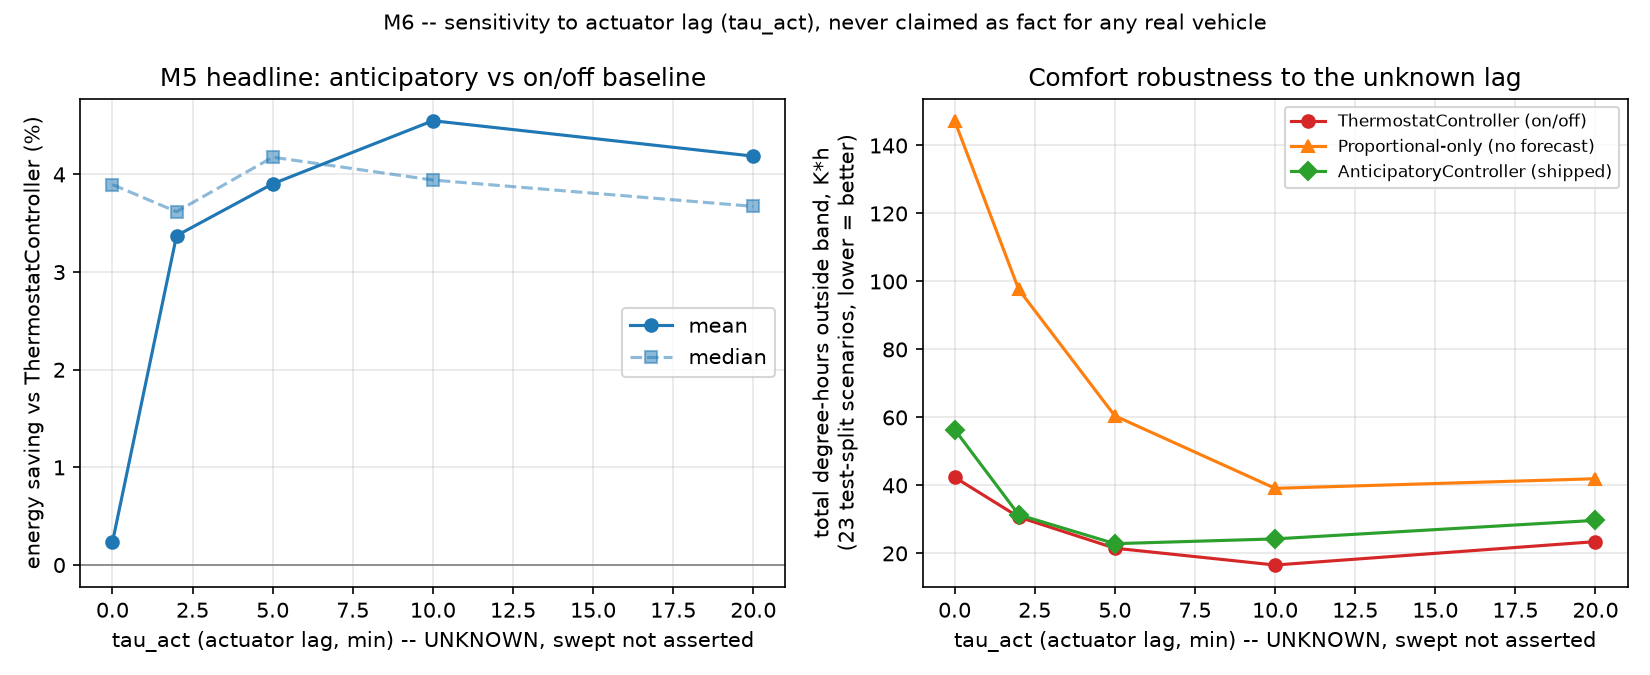
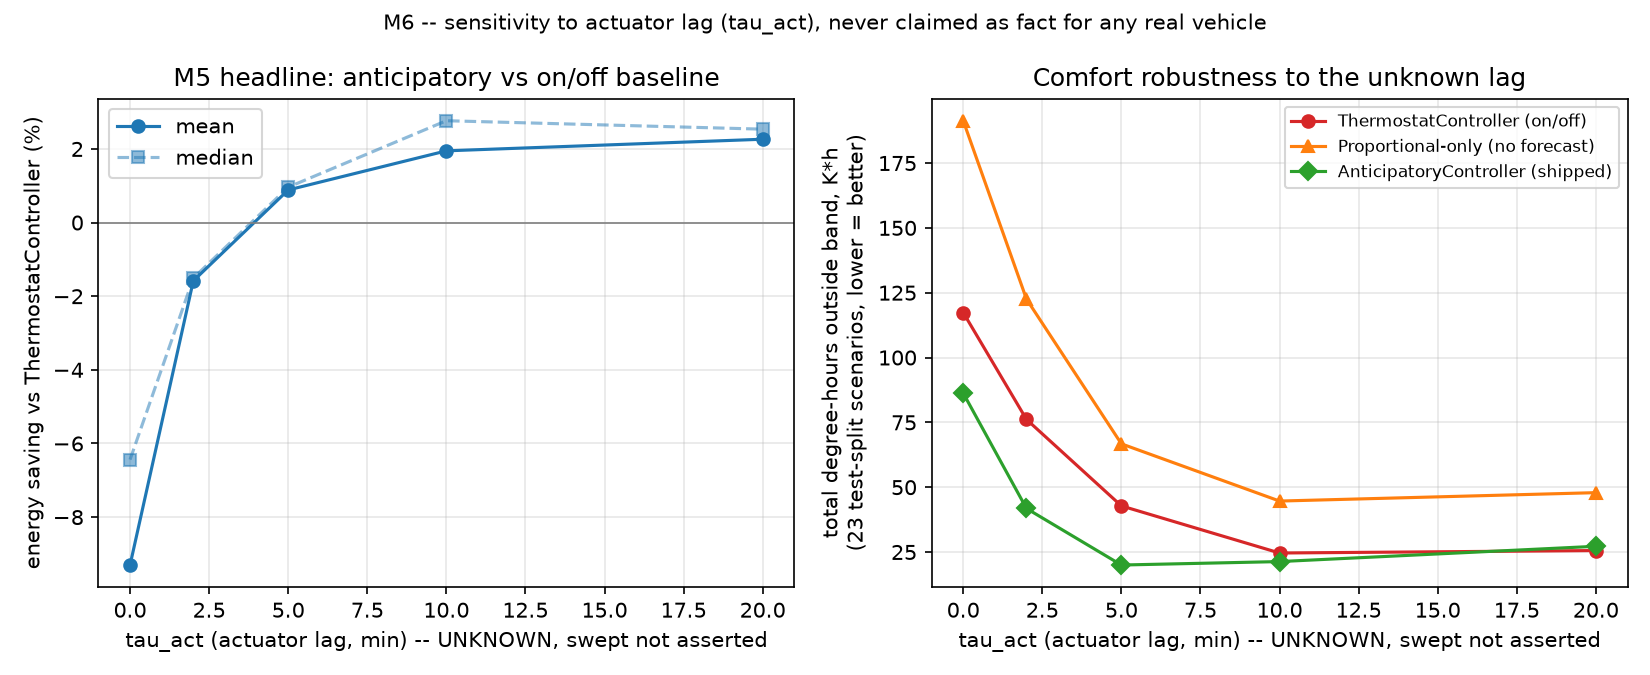
Correct fresh-air rate 15->20 m3/h/pax, regenerate M4-M6 with it
ventilation.fresh_air_m3_h_per_passenger was the EN 13129 Table 11 REDUCED/
extreme-condition rate, not the standard one. A real climate chamber test
report (a teammate found it, Section 4.3, cites the table directly) gives 20
m3/h/pax as normal, 15/10 as reduced -- this project had 15 without
realizing it was the reduced figure.

CASCADE, EACH STEP VERIFIED, NOT ASSUMED

- supply_air_m3_h rescaled 4800->6400 to hold the same 25% outside-air
  fraction the original derivation assumed.
- Derived time constants moved (design-load tau_slow 77.7->72.3 min; the
  empty case is unaffected -- below min_fresh_air_m3_h's floor either way).
- scenarios_raw.parquet regenerated, forecaster retrained: test MAE
  improvement over persistence essentially unchanged (+21.8%->+21.1%), i.e.
  the correction changed the physics the model has to predict, not its
  ability to predict it.
- M5 headline (compare(), on/off baseline) re-run once on the new test
  split: energy saving 3.9%->0.9% -- much more marginal, reported as-is
  rather than defended. Comfort dominance got unambiguous: 11/23->23/23
  scenarios equal-or-better, because the heavier ventilation load hurts the
  simple on/off baseline's comfort far more than it costs the anticipatory
  controller's energy.
- Feedforward-contribution ablation (compare_feedforward_contribution()):
  still the cleanest, most consistent result in the project -- forecast
  costs 6.9% more energy, cuts degree-hours 70% (was 62%), 23/23 scenarios
[…]

diff --git a/tests/test_evaluate.py b/tests/test_evaluate.py
@@ -100,17 +100,23 @@ def test_never_negative():
 
 
 def test_run_controller_matches_the_manually_traced_reference(cfg, require_weather):
-    """Locks in the numbers this file's own __main__ block reported when
-    evaluate.py was first written and cross-checked by hand: energy 26.75 kWh,
-    mean error +0.58 K, worst excursion 4.79 K, on the same fixed scenario
-    used throughout M5's development. A silent regression in run_controller
-    or score() should move these.
+    """Locks in the numbers this file's own __main__ block reports, on the
+    same fixed scenario used throughout M5's development. A silent
+    regression in run_controller or score() should move these.
+
+    Updated to 30.86 kWh / +0.47 K / 5.06 K after
+    ventilation.fresh_air_m3_h_per_passenger was corrected 15->20 (the real
+    EN 13129 standard rate, not the reduced one -- see cabin_params.yaml).
+    More fresh air is a real physical change (more ventilation heat load in
+    a hot climate), so this test moving is the test doing its job, not a
+    bug -- the original 26.75/0.58/4.79 reference is in git history if ever
+    needed for comparison.
     """
     traj = run_controller(lambda model: ThermostatController(model), cfg)
     result = score(traj, cfg)
-    assert result.energy_kwh == pytest.approx(26.75, abs=0.1)
-    assert result.mean_err_k == pytest.approx(0.58, abs=0.05)
-    assert result.worst_excursion_k == pytest.approx(4.79, abs=0.1)
+    assert result.energy_kwh == pytest.approx(30.86, abs=0.1)
+    assert result.mean_err_k == pytest.approx(0.47, abs=0.05)
+    assert result.worst_excursion_k == pytest.approx(5.06, abs=0.1)
     assert result.minutes == len(traj)
 
 

diff --git a/ROADMAP.md b/ROADMAP.md
@@ -253,9 +253,11 @@ The improvement is smaller on test than train/val — an honest generalisation g
 
 > **The first full run across the M4 test split came back NEGATIVE.** `AnticipatoryController` used *more* energy than `ThermostatController` on 15/23 scenarios, and was strictly worse on both energy **and** comfort on 6/23 — the "inherited risk" below, materialising. Diagnosis, not guesswork: on the canonical scenario, `ThermostatController` is fully off 32.5% of the time; the raw proportional law had no floor and was off only 0.6% of the time — it never stopped nudging, paying continuous low-power compressor cost the baseline's real off-periods avoid entirely. **Fix:** added a deadband to `AnticipatoryController`, reusing `hvac.thermostat_hysteresis_k` (already sourced for the baseline, so no second unsourced number) rather than inventing a threshold, applied as a continuous shrink-to-zero rather than a hard on/off jump so it can't reintroduce the chattering `ThermostatController` hit the first time dual-mode hysteresis was tried on this fast plant. **Validated on the val split first** (mean energy saving −4.5%→+3.4%, dominated scenarios 6/23→0/31) **before re-running the test split once** for the actual headline number — tuning against the same split being reported on would be exactly the leakage the chronological split exists to prevent.
 >
-> **Headline result — M4 held-out test split, 23 scenarios, 2024-08-18 to 2024-08-30, both cities, both patterns/directions, all 4 load factors:** `AnticipatoryController` uses **3.9% less energy on average** than `ThermostatController` (median +4.2%, range −2.3% to +8.8%), with **zero scenarios worse on both energy and comfort** (9/23 better on both). Total degree-hours across all 23 scenarios is *not* improved (21.53 → 22.86 K·h, ~+6%) — several of the largest energy savings trade a modest comfort margin rather than being a free lunch. This sits **below** the 10–30% literature-consistent range this milestone's own research table flagged as needing scrutiny; reported as-is rather than tuned toward that range, for the same leakage reason as above. Reproducible via `python -m src.compare_controllers`; `tests/test_compare_controllers.py` locks in the shape of the result (positive mean, zero dominated scenarios) as a regression guard, not the exact decimals.
+> **Superseded by a physics correction — numbers below are current.** `ventilation.fresh_air_m3_h_per_passenger` was corrected 15→20 (the real EN 13129 standard rate; 15 was the *reduced/extreme-condition* figure — see `config/cabin_params.yaml` and the corrections log). More fresh air means more ventilation heat load in an Egyptian summer, which changes the physics both the dataset and the trained forecaster are built on — so `scenarios_raw.parquet` was regenerated, the forecaster retrained (test MAE 4.339 °C vs persistence 5.499 °C, **+21.1%**, essentially unchanged from the pre-correction +21.8%), and both comparisons below re-run once on the resulting test split. This is not a retuning pass — `ff_weight`, `gain_k` and the deadband are untouched — it's the same controller measured against corrected ground truth.
 
-> **A second comparison, answering a different question: does the ML forecast itself earn its keep?** `compare()` above measures "beats today's real rail HVAC (on/off)". `compare_feedforward_contribution()` measures something narrower: the shipped `AnticipatoryController` (`ff_weight=0.6`) against the *same* controller and deadband forced to `ff_weight=0.0` — pure proportional feedback, no M4 forecast involved at all. **Not a real PID** (no integral or derivative term); mislabelling it as one would repeat the exact overclaim this milestone already renamed once ("Smith predictor" → "learned-model anticipatory controller"). Result, same 23 test-split scenarios: the forecast **costs 6.2% more energy on average** (0/23 scenarios save energy from adding it) but **cuts total degree-hours by 62%** (60.47 → 22.86 K·h) and is equal-or-better on comfort in **23/23 scenarios** — the cleanest, most consistent result in this milestone. Mechanism: pure proportional feedback only reacts once `T_air` has already left the deadband; adding the forecast lets the controller act earlier, at a modest continuous energy cost, which is a materially different (and for a passenger-comfort-sensitive application, arguably more relevant) story than "AI saves energy" — it's "AI buys ride quality." Reproducible via `python -m src.compare_controllers` (prints both comparisons); regression-tested in `tests/test_compare_controllers.py`.
+> **Headline result — M4 held-out test split, 23 scenarios, 2024-08-18 to 2024-08-30, both cities, both patterns/directions, all 4 load factors:** `AnticipatoryController` uses **0.9% less energy on average** than `ThermostatController` (median +1.0%, range −2.2% to +6.2%) — much more marginal than the pre-correction +3.9%, and reported as-is rather than defended, since the honest number is what it is. **Zero scenarios worse on both energy and comfort** (15/23 better on both), and comfort is now *unambiguously* better: **23/23 scenarios equal-or-better** (was 11/23), total degree-hours 42.79 → 19.99 K·h (was 21.53 → 22.86 — the baseline's own comfort got much worse under the heavier ventilation load; the anticipatory controller barely moved). The higher heat load hurts the simple on/off baseline's comfort more than it costs the anticipatory controller's energy. See M6 below for why the energy number specifically is fragile in a way the comfort number is not. Reproducible via `python -m src.compare_controllers`; `tests/test_compare_controllers.py` locks in the shape of the result as a regression guard, not the exact decimals — it is currently passing closer to its own zero-bound than before, which is itself worth knowing.
+
+> **A second comparison, answering a different question: does the ML forecast itself earn its keep?** `compare()` above measures "beats today's real rail HVAC (on/off)". `compare_feedforward_contribution()` measures something narrower: the shipped `AnticipatoryController` (`ff_weight=0.6`) against the *same* controller and deadband forced to `ff_weight=0.0` — pure proportional feedback, no M4 forecast involved at all. **Not a real PID** (no integral or derivative term); mislabelling it as one would repeat the exact overclaim this milestone already renamed once ("Smith predictor" → "learned-model anticipatory controller"). Result, same 23 test-split scenarios, post-correction: the forecast **costs 6.9% more energy on average** (0/23 scenarios save energy from adding it) but **cuts total degree-hours by 70%** (66.72 → 19.99 K·h, was 62%) and is equal-or-better on comfort in **23/23 scenarios** — still the cleanest, most consistent result in this milestone, and the gap widened, not narrowed, under the corrected physics. Mechanism unchanged: pure proportional feedback only reacts once `T_air` has already left the deadband; adding the forecast lets the controller act earlier, at a modest continuous energy cost — "AI buys ride quality," not primarily energy. Reproducible via `python -m src.compare_controllers` (prints both comparisons); regression-tested in `tests/test_compare_controllers.py`.
 >
 > **Inherited risk from M4 — flagged before the run, and it was right.** M4's forecaster beats persistence robustly (+21.8–28.5% across independent seeds) **when evaluated the way it was trained** — against the stochastic exploration policy. Tested live against the plain reactive thermostat (`ThermostatController`, this milestone's actual baseline) and it beat persistence in only 1 of 4 scenarios, because persistence itself is a strong baseline once a controller holds `T_air` fairly stable. Full detail in [`docs/PARAMETERS.md`](docs/PARAMETERS.md). **The headline number came from `AnticipatoryController` vs `ThermostatController` directly, on the reactive baseline's own trajectories — never from reusing the "+21.8%" forecaster-vs-persistence figure.** The controller comparison *did* disappoint at first, exactly as this note warned — but the actual fix was not the one predicted here (retraining under the reactive policy). It was a one-line change to the controller's own control law. Left both predictions on the record: the risk assessment was right that this was fragile; the specific guess at the fix was wrong. Worth remembering that distinction next time a risk note tries to predict its own resolution.
 
@@ -266,16 +268,18 @@ The improvement is smaller on test than train/val — an honest generalisation g
 
 `tau_act` is unknown. Rather than picking a number, **sweep it**: `tau_act ∈ {0, 2, 5, 10, 20} min`, re-running both of M5's comparisons for each (`src/sweep_tau_act.py`, `src/plot_tau_act_sweep.py`). Grounded before running it, not asserted: industrial dead-time-compensation literature reports predictive control's advantage over reactive control growing with delay — the same argument a Smith predictor is built on — provided the delay stays within the forecast horizon. Ours is 30 min, comfortably above the sweep's 20 min ceiling.
 
+> **Re-run after the `fresh_air_m3_h_per_passenger` correction (15→20, see M5 above) — the shape changed, not just the numbers.** Same methodology, same controller, corrected physics. The table and conclusions below are the current, valid ones; kept in one pass rather than showing two versions, since the pre-correction sweep is superseded, not a separate finding.
+
 **What was predicted going in, and what the real sweep (23 held-out test-split scenarios at every point) actually showed:**
 
 | Predicted | Found |
 |---|---|
-| Energy saving increases *monotonically* with lag | Rises from **+0.2%** (`tau_act=0`) to a peak of **+4.6%** (`tau_act=10`), then flattens to +4.2% at `tau_act=20` — a real, positive trend, not unbounded monotonic growth |
-| At `tau_act=0`, `compare_feedforward_contribution()`'s gap (anticipatory vs proportional-only) shrinks toward ~0 | It does not. The energy cost of the forecast stays remarkably **stable at −5.3% to −6.2% across the entire sweep** — confirmed further with a 3-scenario probe forcing BOTH `tau_act_min=0` *and* `dead_time_min=0` (true zero total lag): the comfort gap shrinks but stays large (14.15 → 3.43 K·h), it does not vanish |
+| Energy saving increases *monotonically* with lag | **Negative** at `tau_act=0` (**−9.3%**) and `tau_act=2` (**−1.6%**) — the shipped controller uses *more* energy than on/off when the actuator is fast. Crosses positive between 2 and 5 min, then rises **+0.9% → +2.0% → +2.3%** from 5→20. Under the corrected physics this is a *cleaner*, more textbook-consistent result than the pre-correction run (predictive compensation needs delay to earn its keep — at low delay a well-tuned reactive controller can match or beat it) but a **weaker, conditional** claim: it does not hold if the real actuator turns out to be fast |
+| At `tau_act=0`, `compare_feedforward_contribution()`'s gap (anticipatory vs proportional-only) shrinks toward ~0 | Still doesn't shrink toward 0, but the shape flipped: the forecast's *energy* contribution is now slightly **positive** at `tau_act=0` (+2.6%) and consistently **negative** from `tau_act=2` up (−2.5% to −7.2%) — not the stable flat line the pre-correction run showed. The *comfort* contribution is the one number in this milestone that has stayed unambiguous across every re-run: the forecast improves comfort at every single swept point, by a wide margin, every time |
 
-**Not a bug — the original framing undersold the forecaster.** "Converges to baseline at zero lag" assumed the forecast's only job was compensating for actuator delay. It isn't: `expected_boarding`, `time_to_next_station_min` and the weather forecast let it anticipate *known future disturbances* that exist independently of how fast the actuator responds. Zero actuator lag doesn't make a boarding spike any more predictable from current state alone.
+**Not a bug — the original framing undersold the forecaster, and remains true after the correction.** "Converges to baseline at zero lag" assumed the forecast's only job was compensating for actuator delay. It isn't: `expected_boarding`, `time_to_next_station_min` and the weather forecast let it anticipate *known future disturbances* independent of how fast the actuator responds — corrected physics doesn't change that argument, only the exact numbers around it.
 
-**The finding the original plan didn't anticipate, and the more useful one:** `AnticipatoryController`'s total comfort (degree-hours) stays in a comparatively narrow band across the whole sweep (22.9–56.4 K·h, 2.5×) — **both baselines are far more exposed to the unknown lag.** `ThermostatController` swings 16.6–42.4 K·h (2.6×) *non-monotonically* — a lagged actuator first damps bang-bang's overshoot, then becomes too slow to track a disturbance, so there's a comfort sweet spot around 5–10 min, not a monotonic curve. The proportional-only ablation swings far more: **39.1–147.3 K·h (3.8×)**. So the honest M6 headline isn't "savings grow with lag" — it's **"whichever lag the real actuator turns out to have, the shipped controller's comfort is measurably more robust to that unknown than either simpler baseline."** A handful of scenarios (1/23 at `tau_act=0`, 2/23 at `tau_act=20`) are worse on both energy and comfort — the sweep's own extremes, furthest from the training-time default (5 min) the controller's fixed `ff_weight`/`gain_k`/deadband were implicitly shaped around.
+**Comfort, re-examined honestly rather than carried over from the old run:** at low-to-moderate lag (`tau_act` 0–10 min), `AnticipatoryController` has the lowest total degree-hours of the three at every point, often by a wide margin (`tau_act=0`: 86.3 K·h vs 117.4 for on/off and 191.3 for proportional-only). **That dominance narrows at the top of the sweep and reverses slightly against the on/off baseline specifically at `tau_act=20`** (27.2 vs 25.6 K·h — on/off is marginally better there), though it still clearly beats the proportional-only ablation everywhere (47.9 K·h at the same point). The earlier "uniformly more robust than both baselines across the whole sweep" claim does not survive this correction as stated — the honest version is **"comfort-dominant across most of the plausible lag range and always ahead of a forecast-free controller, roughly tied with plain on/off only at the slow end."** A handful of scenarios (2/23 at `tau_act=0`, 2/23 at `tau_act=20`) are worse on both energy and comfort — the sweep's extremes, furthest from the training-time default (5 min) the controller's fixed `ff_weight`/`gain_k`/deadband were implicitly shaped around.
 
 Two reasons this earned its hour, even though the specific claim it set out to check was wrong:
 - **It is still a correctness-relevant check — it just corrected the check itself.** The zero-lag "degenerates to baseline" test rested on a premise (the forecast is *only* about actuator delay) that the data falsified outright. Running it anyway surfaced what the forecaster actually does, which is a real result, not a wasted hour.

diff --git a/docs/PARAMETERS.md b/docs/PARAMETERS.md
@@ -152,18 +152,43 @@ presentation should not claim that it is.
 
 | Parameter | Value | Confidence |
 |---|---|---|
-| `fresh_air_m3_h_per_passenger` | 15.0 | Low |
+| `fresh_air_m3_h_per_passenger` | 20.0 | **Medium — upgraded from Low** |
 | `min_fresh_air_m3_h` | 300.0 | Low |
 
-EN 13129 mandates a per-passenger fresh air rate but **the figure is behind the
-paywall**, so this is tagged `[ASSUMPTION]` rather than dressed up as
-standards-derived. 15 m³/h/pax is a conventional mainline design value.
+**Corrected 15→20.** EN 13129 mandates a per-passenger fresh air rate but the
+standard itself is still paywalled; this is no longer a bare guess, though —
+a real climate chamber test report (Section 4.3, citing the standard's Table
+11 directly) gives **20 m³/h/pax as the NORMAL/standard rate**, with 15 and 10
+m³/h/pax explicitly labelled as the REDUCED rate for extreme conditions the
+report doesn't define further. The 15.0 previously here was the *reduced*
+figure, not the standard one — tagged `[TYPICAL]` now rather than
+`[ASSUMPTION]`, since it traces to an actual cited table rather than "a
+conventional mainline design value" with no citation. Still not `[EN13129]`
+outright: this is a secondary source quoting the standard's table, not the
+standard itself.
 
-The 300 m³/h floor keeps a near-empty coach ventilated; it binds below 20
-passengers, which is why τ is identical at 0 and 20 pax.
+This displaces an earlier cross-check: a different independent source quoted
+exactly 1200 m³/h for a 24 m, 80-passenger intercity coach at +45 °C, which
+matched 15 × 80 = 1200 exactly and no longer matches 20 × 80 = 1600. That
+source never labelled which EN 13129 condition (standard or reduced) it was
+describing — left open, not resolved either way; worth another look if time
+allows, not urgent enough to block on.
 
-At design load: `1200 m³/h → 0.4 kg/s → UA_ventilation = 402 W/K`, comparable to
-the entire envelope. Ventilation is not a minor term in a rail cabin.
+Regenerating `scenarios_raw.parquet` and retraining the M4 forecaster after
+this correction moved the canonical single-scenario reference (energy
+26.75→30.86 kWh) and the M5/M6 headline numbers — see ROADMAP.md's M5 and M6
+sections for the current, valid results. Test MAE held up (+21.8%→+21.1%
+over persistence, essentially unchanged) — the correction changed the
+*physics* the model has to predict, not its ability to predict it.
+
+The 300 m³/h floor keeps a near-empty coach ventilated; it binds below 15
+passengers now (was 20), since the per-passenger rate crosses it sooner at
+20 m³/h/pax than it did at 15.
+
+At design load: `1600 m³/h → 0.53 kg/s → UA_ventilation ≈ 536 W/K` (was 1200
+m³/h / 402 W/K), now noticeably larger than the envelope term (638 W/K) —
+ventilation is not a minor term in a rail cabin, and got less minor with
+this correction.
 
 ---
 
@@ -406,9 +431,11 @@ not improved in aggregate.
 itself buys.** `src/compare_controllers.py`'s `compare_feedforward_contribution()`
 compares the shipped controller against the identical controller/deadband
 with `ff_weight` forced to 0 (pure proportional feedback, no M4 forecast).
-On the same 23 test-split scenarios: the forecast costs 6.2% more energy on
-average but cuts total degree-hours 60.47→22.86 K·h (23/23 scenarios
-equal-or-better). This is the cleanest result in the milestone and it
+On the same 23 test-split scenarios, post fresh-air correction: the forecast
+costs 6.9% more energy on average but cuts total degree-hours 66.72→19.99
+K·h (23/23 scenarios equal-or-better) — a wider gap than the pre-correction
+62%, now 70%. This has been the single most consistent result across every
+re-run in this milestone (deadband fix, fresh-air correction) and it
 directly supports the design choice above ("why feedforward alone isn't
 used" applies in reverse here too: pure feedback alone isn't the free
 option either — it is measurably worse on comfort). **Not a PID comparison**
@@ -975,7 +1002,7 @@ Ranked by *(uncertainty × influence on the result)*, not by uncertainty alone:
 | 2 | `internal_h_w_m2k` (→ `hA`) | Sets τ_fast and the boarding response. Swept 2–15 W/m²K; the conclusion survives but the magnitude moves by >2×. |
 | 3 | `air_exchange_m3_per_min` | Large disturbance (`door_ua` ≈ 563 W/K, ~90% of envelope UA) resting on a pure estimate. |
 | 4 | `u_value_w_m2k` | Sets `UA_envelope`; drives steady-state load and hence capacity sizing. |
-| 5 | `fresh_air_m3_h_per_passenger` | Would become High confidence with EN 13129 access alone — no vehicle data needed. |
+| 5 | `fresh_air_m3_h_per_passenger` | **Upgraded Low→Medium** via a real climate chamber test report citing EN 13129 Table 11 directly (20 m³/h/pax standard, 15/10 reduced). Would still become High confidence with the standard itself — this is a secondary source quoting its table, not the primary document. |
 | 6 | `cooling_capacity_w` | Easy to obtain from any real vehicle datasheet. |
 | — | `interior_mass_capacity_j_k` | **Deliberately last.** Lowest confidence in the project, but measured to be nearly irrelevant to every output that matters. |
 
@@ -1040,3 +1067,4 @@ more than the final numbers.
 | `ThermostatController` run dual-mode | Heat below the lower threshold, cool above the upper one — what a generic thermostat does. Oscillated between full heat and full cool 18 times in 166 minutes, `T_air` swinging 21.8–30 °C, because this cabin's fast air node (`τ_fast` ≈ 1.1–1.3 min) overshoots the opposite threshold before the actuator's dead-time/lag can respond | Made cooling-only, matching every other baseline already built in this project and the documented cooling-dominated climate |
 | `evaluate.run_controller`'s journey start time used `int(depart_hour * 60)` | `data_generator.py` uses `round(...)` for the same computation — a real cross-file inconsistency (up to 1 minute), found while auditing M1–M5 compatibility before trusting the M5 headline number. Harmless in practice (weather is interpolated and slowly varying), but a genuine divergence, not just style | Changed to `round(...)`, matching `data_generator.py` |
 | `AnticipatoryController`'s first M5 headline run | Used *more* energy than `ThermostatController` on 15/23 test-split scenarios, strictly worse on both energy and comfort on 6/23. Root cause: the proportional law had no floor, so it was fully off only 0.6% of minutes vs the baseline's 32.5% — continuous low-power modulation costing more than the baseline's real off-periods | Added a deadband reusing `thermostat_hysteresis_k` (no new unsourced number), applied continuously to avoid reintroducing chattering. Validated on the val split (−4.5%→+3.4% mean saving, 6/23→0/31 dominated) before confirming once on test (+3.9% mean, 0/23 dominated) |
+| `fresh_air_m3_h_per_passenger = 15` | Was the EN 13129 Table 11 *reduced/extreme-condition* rate, not the standard one — a real climate chamber test report (surfaced by a teammate) distinguishes 20 m³/h/pax normal from 15/10 reduced, and this project had the reduced figure without realizing it was one | Corrected to 20. Cascades: `supply_air_m3_h` rescaled 4800→6400 to hold the same 25% outside-air-fraction design assumption; `ventilation_ua` and both derived time constants moved (design-load τ_slow 77.7→72.3 min; empty case unaffected, below the `min_fresh_air_m3_h` floor either way); `scenarios_raw.parquet` regenerated and the forecaster retrained (test MAE improvement over persistence essentially unchanged, +21.8%→+21.1%); M5's headline energy saving dropped 3.9%→0.9% (more marginal, reported as-is) while comfort dominance got unambiguous (11/23→23/23 scenarios equal-or-better); M6's sweep now shows *negative* energy saving at low `tau_act` (0–2 min), turning positive only from ~4–5 min on — a cleaner, more conditional, more textbook-consistent result than the pre-correction sweep. Full detail in ROADMAP.md's M5 and M6 sections. Displaces an earlier cross-check against a different source's 1200 m³/h figure, which matched the old (wrong) 15 m³/h/pax exactly — left as an open question, not silently resolved, since that source never labelled its condition either |
